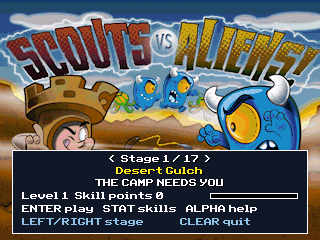
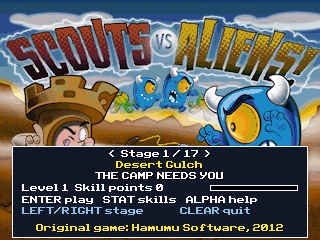
Credit Hamumu Software in-game and in the docs; clip text that overflows the screen
The Pedro controls page crashed the emulator because long lines wrapped past
the end of the screen buffer. Text is now truncated or wrapped to fit in both
games. Credits go in CREDITS.md, the READMEs, the release package and the
help/menu screens.

Changed region(s): [[0.0312, 0.5833, 0.9688, 0.9917]]

diff --git a/flash-ports/pedrofu/src/frontend.c b/flash-ports/pedrofu/src/frontend.c
@@ -7,7 +7,7 @@ static int menu_selection, skill_cursor;
 static char text[64];
 
 static void panel(int x, int y, int w, int h) { gfx_SetColor(cPanel); gfx_FillRectangle(x, y, w, h); gfx_SetColor(cWhite); gfx_Rectangle(x, y, w, h); }
-static void shadow(const char *s, int x, int y, int color) { gfx_SetTextFGColor(cBlack); gfx_PrintStringXY(s, x + 1, y + 1); gfx_SetTextFGColor(color); gfx_PrintStringXY(s, x, y); }
+static void shadow(const char *s, int x, int y, int color) { gfx_SetTextFGColor(cBlack); print_fit(s, x + 1, y + 1); gfx_SetTextFGColor(color); print_fit(s, x, y); }
 static void centered(int y, const char *s, int color) { shadow(s, (320 - gfx_GetStringWidth(s)) / 2, y, color); }
 static int available_levels(void) { int n = levels_passed(); return n > 14 ? 14 : n; }
 static void start_stage(int level) { if (load_level(level)) { g.mode = PLAY; g.previousmode = MAP; } }
@@ -32,7 +32,7 @@ static void draw_skills(void) {
     gfx_Sprite((gfx_sprite_t *)uidata[2][0], 0, 0); gfx_Sprite((gfx_sprite_t *)uidata[2][1], 160, 0);
     centered(1, "SKILLS", cWhite);
     snprintf(text, sizeof text, "Points left: %d", progress.points); shadow(text, 4, 12, cWhite);
-    snprintf(text, sizeof text, "Level %d", progress.rank + 1); shadow(text, 262, 12, cWhite);
+    snprintf(text, sizeof text, "Level %d", progress.rank + 1); shadow(text, 250, 12, cWhite);
     for (int group = 0; group < 3; group++) draw_ui(UI_SKB, 0, 11 + group * 103, 26);
     for (int id = 0; id < 45; id++) {
         int x = skill_x(id), y = skill_y(id), state = skill_state(id), group = skillgrid[id][0];
@@ -43,7 +43,7 @@ static void draw_skills(void) {
     gfx_SetColor(cYellow); gfx_Rectangle(skill_x(skill_cursor) - 4, skill_y(skill_cursor) - 4, 24, 24); gfx_Rectangle(skill_x(skill_cursor) - 5, skill_y(skill_cursor) - 5, 26, 26);
     panel(4, 168, 312, 44);
     int state = skill_state(skill_cursor);
-    if (state < 0) centered(173, "??? Find an Ancient Technique to learn it", cWhite);
+    if (state < 0) centered(173, "Find an Ancient Technique first", cWhite);
     else {
         snprintf(text, sizeof text, "%s   rank %d / 5", skillnames[skill_cursor], progress.skills[skill_cursor]); centered(173, text, cYellow);
         int need = skill_need(skill_cursor);
@@ -113,26 +113,21 @@ void draw_frontend(void) {
         centered(197, "ENTER  Play game", cWhite); centered(207, "ALPHA  Controls", cWhite); centered(217, "CLEAR  Quit", cCyan);
         shadow("Game copyright 2012, Hamumu Software", 60, 231, cWhite);
         break;
-    case HELP: {
+    case HELP:
         gfx_FillScreen(cPanel);
         centered(4, "PEDRO KICKS BACK - CONTROLS", cYellow);
-        static const char *const lines[] = {
-            "Arrows: run, duck (hold Down), double-tap = Burro Bash",
-            "Up or 2nd: jump, again in the air = double jump",
-            "Hold 2nd while falling: glide",
-            "Alpha: punch; in the air: kick; duck + Alpha: Pedroken",
-            "Down in the air: dive kick     Hold Alpha: carry/throw",
-            "Del: fury - hold it with 1 full bar and press",
-            "  Down = blast, Left = freeze, Right = frenzy, Up = fix",
-            "MODE: pause (ENTER resume, STAT skills, MODE map)",
-            "Collect all the lost mail to finish a stage.",
-            "Find Ancient Techniques, hearts and Fury Souls.",
-            "Level up for skill points and spend them with STAT.",
-            "CLEAR: save and quit"};
         gfx_SetTextFGColor(cWhite);
-        for (int i = 0; i < 12; i++) gfx_PrintStringXY(lines[i], 8, 22 + i * 15);
+        wrap_text(8, 20, 304,
+                  "Arrows: run; hold Down to duck; double-tap a direction for Burro Bash.\n"
+                  "Up or 2nd: jump, again in the air to double-jump; hold 2nd while falling to glide.\n"
+                  "Alpha: punch; in the air, kick; duck + Alpha: Pedroken; Down in the air: dive kick; hold Alpha after a Burro Bash hit to grab.\n"
+                  "Del: Fury. With a full bar, hold Del and press Down (blast), Left (freeze), Right (frenzy) or Up (fix).\n"
+                  "MODE: pause. STAT: skills. CLEAR: save and quit.\n"
+                  "Collect all the lost mail to finish a stage. Find Ancient Techniques, hearts and Fury Souls; level up for skill points.",
+                  11);
+        centered(204, "Original game: Hamumu Software, 2012", cYellow);
         centered(224, "ENTER returns", cCyan);
-        break; }
+        break;
     case MAP: {
         gfx_Sprite((gfx_sprite_t *)uidata[1][0], 0, 0); gfx_Sprite((gfx_sprite_t *)uidata[1][1], 160, 0);
         int top = available_levels(), blink = (g.frame / 8) & 1;

diff --git a/flash-ports/scoutcamp/src/main.c b/flash-ports/scoutcamp/src/main.c
@@ -54,25 +54,32 @@ static void pickColors(void) {
     cBlack = nearestColor(0, 0, 0); cWhite = nearestColor(255, 255, 255); cYellow = nearestColor(255, 230, 40);
     cRed = nearestColor(230, 30, 30); cGreen = nearestColor(40, 200, 60); cCyan = nearestColor(90, 220, 255); cPanel = nearestColor(24, 24, 48);
 }
-static void label(const char *s, int x, int y, int color) { gfx_SetTextFGColor(color); gfx_PrintStringXY(s, x, y); }
+/* GraphX does not clip text at the right edge (it wraps into the next scanline), so truncate to fit. */
+static void printFit(const char *s, int x, int y) {
+    if (x + (int)gfx_GetStringWidth(s) <= 316) { gfx_PrintStringXY(s, x, y); return; }
+    char buffer[96]; int n = 0;
+    while (s[n] && n < 90) { buffer[n] = s[n]; buffer[n + 1] = 0; if (x + (int)gfx_GetStringWidth(buffer) > 316) { buffer[n] = 0; break; } n++; }
+    gfx_PrintStringXY(buffer, x, y);
+}
+static void label(const char *s, int x, int y, int color) { gfx_SetTextFGColor(color); printFit(s, x, y); }
 static void shadowLabel(const char *s, int x, int y, int color) { label(s, x + 1, y + 1, cBlack); label(s, x, y, color); }
 static void centered(const char *s, int y, int color) { shadowLabel(s, (320 - gfx_GetStringWidth(s)) / 2, y, color); }
 static void panel(int x, int y, int w, int h) { gfx_SetColor(cPanel); gfx_FillRectangle(x, y, w, h); gfx_SetColor(cWhite); gfx_Rectangle(x, y, w, h); }
 static void wrapText(const char *s, int x, int y, int width, int step, int color) {
     char line[96]; int n = 0; gfx_SetTextFGColor(color);
     while (*s) {
-        if (*s == '\n') { line[n] = 0; gfx_PrintStringXY(line, x, y); n = 0; y += step; s++; continue; }
+        if (*s == '\n') { line[n] = 0; printFit(line, x, y); n = 0; y += step; s++; continue; }
         if (*s == ' ') { if (n && n < 90) line[n++] = ' '; s++; continue; }
         int len = 0; while (s[len] && s[len] != ' ' && s[len] != '\n') len++;
         if (len > 40) len = 40;
         memcpy(line + n, s, len); line[n + len] = 0;
         if (n && (int)gfx_GetStringWidth(line) > width) {
             while (n && line[n - 1] == ' ') n--;
-            line[n] = 0; gfx_PrintStringXY(line, x, y); y += step; memcpy(line, s, len); n = len; line[n] = 0;
+            line[n] = 0; printFit(line, x, y); y += step; memcpy(line, s, len); n = len; line[n] = 0;
         } else n += len;
         s += len;
     }
-    line[n] = 0; if (n) gfx_PrintStringXY(line, x, y);
+    line[n] = 0; if (n) printFit(line, x, y);
 }
 static void drawArt(int id, int frame, int x, int y, bool flip) {
     gfx_sprite_t *sprite = art_sprite(id, frame);
@@ -91,16 +98,17 @@ static void xpBar(int x, int y, int w) {
 /* ---------- menus ---------- */
 static void renderMenu(void) {
     art_background(ART_TITLESTATE_TITLEIMAGE_LEFT);
-    panel(12, 150, 296, 84);
+    panel(12, 146, 296, 92);
     snprintf(textbuf, sizeof textbuf, "<  Stage %u / 17  >", level + 1);
-    centered(textbuf, 155, cWhite);
-    centered(stageTitles[level], 167, cYellow);
-    if (level >= unlocked) centered("LOCKED - win the previous stage", 179, cRed);
-    else centered(stageWon[level] ? "CAMP SAVED" : "THE CAMP NEEDS YOU", 179, stageWon[level] ? cGreen : cWhite);
+    centered(textbuf, 150, cWhite);
+    centered(stageTitles[level], 161, cYellow);
+    if (level >= unlocked) centered("LOCKED - win the previous stage", 172, cRed);
+    else centered(stageWon[level] ? "CAMP SAVED" : "THE CAMP NEEDS YOU", 172, stageWon[level] ? cGreen : cWhite);
     snprintf(textbuf, sizeof textbuf, "Level %d  Skill points %d", playerLevel, skillPoints);
-    label(textbuf, 22, 192, cWhite); xpBar(210, 193, 88);
-    label("ENTER play   STAT skills   ALPHA help", 22, 205, cWhite);
-    label("LEFT/RIGHT stage            CLEAR quit", 22, 218, cCyan);
+    label(textbuf, 22, 184, cWhite); xpBar(210, 185, 88);
+    label("ENTER play   STAT skills   ALPHA help", 22, 196, cWhite);
+    label("LEFT/RIGHT stage            CLEAR quit", 22, 207, cCyan);
+    centered("Original game: Hamumu Software, 2012", 224, cYellow);
 }
 static void renderHelp(void) {
     gfx_FillScreen(cPanel);
@@ -120,6 +128,7 @@ static void renderHelp(void) {
         "Kill thieves to drop the food they carry;",
         "dropped food can be grabbed again."};
     for (int i = 0; i < 13; i++) label(lines[i], 10, 22 + i * 14, cWhite);
+    centered("Original game: Hamumu Software, 2012", 208, cYellow);
     label("Press ENTER or MODE to return", 50, 224, cCyan);
 }
 

diff --git a/flash-ports/pedrofu/src/render.c b/flash-ports/pedrofu/src/render.c
@@ -23,22 +23,29 @@ void pick_colors(void) {
     cWhite = 255; cYellow = 254; cGold = 252;
 }
 
-void center_text(int y, const char *s) { gfx_PrintStringXY(s, (320 - gfx_GetStringWidth(s)) / 2, y); }
+/* GraphX does not clip text at the right edge (it wraps into the next scanline), so truncate to fit. */
+void print_fit(const char *s, int x, int y) {
+    if (x + (int)gfx_GetStringWidth(s) <= 316) { gfx_PrintStringXY(s, x, y); return; }
+    char buffer[96]; int n = 0;
+    while (s[n] && n < 90) { buffer[n] = s[n]; buffer[n + 1] = 0; if (x + (int)gfx_GetStringWidth(buffer) > 316) { buffer[n] = 0; break; } n++; }
+    gfx_PrintStringXY(buffer, x, y);
+}
+void center_text(int y, const char *s) { int w = gfx_GetStringWidth(s); print_fit(s, w >= 316 ? 2 : (320 - w) / 2, y); }
 void wrap_text(int x, int y, int width, const char *s, int step) {
     char line[96]; int n = 0;
     while (*s) {
-        if (*s == '\n') { line[n] = 0; gfx_PrintStringXY(line, x, y); n = 0; y += step; s++; continue; }
+        if (*s == '\n') { line[n] = 0; print_fit(line, x, y); n = 0; y += step; s++; continue; }
         if (*s == ' ') { if (n && n < 90) line[n++] = ' '; s++; continue; }
         int len = 0; while (s[len] && s[len] != ' ' && s[len] != '\n') len++;
         if (len > 40) len = 40;
         memcpy(line + n, s, len); line[n + len] = 0;
         if (n && (int)gfx_GetStringWidth(line) > width) {
             while (n && line[n - 1] == ' ') n--;
-            line[n] = 0; gfx_PrintStringXY(line, x, y); y += step; memcpy(line, s, len); n = len; line[n] = 0;
+            line[n] = 0; print_fit(line, x, y); y += step; memcpy(line, s, len); n = len; line[n] = 0;
         } else n += len;
         s += len;
     }
-    line[n] = 0; if (n) gfx_PrintStringXY(line, x, y);
+    line[n] = 0; if (n) print_fit(line, x, y);
 }
 
 static void tile(int t, int x, int y) {

diff --git a/flash-ports/pedrofu/src/story.c b/flash-ports/pedrofu/src/story.c
@@ -13,7 +13,7 @@ void story_draw(void){
 }
 void story_triggers(void){
  if(g.level==3&&g.px>37*16*16&&g.ground)story_start(3,-1);
- if(g.level==0){const char *tip=NULL;int x=g.px/16;if(x<300)tip="Arrows move. Up or 2nd jumps; hold to glide.";else if(x<700)tip="Alpha attacks. Tap again in the air for a kick.";else if(x<1200)tip="Pick up Ancient Techniques, then spend XP points.";else if(x<1600)tip="Collect all lost mail to complete the stage.";else tip="MODE pauses; SKILLS are available from the map.";if(!g.notice_timer)notice(tip);}
+ if(g.level==0){const char *tip=NULL;int x=g.px/16;if(x<300)tip="Arrows move. Up or 2nd jumps; hold to glide.";else if(x<700)tip="Alpha attacks. Alpha in the air kicks.";else if(x<1200)tip="Collect Ancient Techniques, then use STAT.";else if(x<1600)tip="Collect all the lost mail to finish.";else tip="MODE pauses. STAT opens your skills.";if(!g.notice_timer)notice(tip);}
  for(int i=0;i<g.enemies;i++){Enemy *e=&g.enemy[i];if(!e->active)continue;int distance=absi(e->x-g.px)+absi(e->y-g.py);
   if(g.level==1&&e->type==17&&distance<100*16&&e->tag)story_start(2,i);
   if(g.level==4&&e->type==35&&distance<130*16)story_start(4,i);

diff --git a/flash-ports/pedrofu/src/game.h b/flash-ports/pedrofu/src/game.h
@@ -54,5 +54,5 @@ Enemy *spawn_enemy(int type,int tx,int ty,int tag);void enemy_update(void);void 
 void player_update(void);void projectile_update(void);void fire_shot(int type,int side,int x,int y,int vx,int vy,int damage);
 void prop_update(void);void arena_setup(void);void arena_update(void);void drop_power(int which,int x,int y);
 void story_start(int event,int enemy);void story_update(void);void story_draw(void);void story_triggers(void);
-void draw_game(void);void draw_frontend(void);void frontend_update(void);void wrap_text(int x,int y,int width,const char *s,int lineheight);void center_text(int y,const char *s);
+void draw_game(void);void draw_frontend(void);void frontend_update(void);void wrap_text(int x,int y,int width,const char *s,int lineheight);void print_fit(const char *s,int x,int y);void center_text(int y,const char *s);
 #endif

diff --git a/flash-ports/package.py b/flash-ports/package.py
@@ -21,7 +21,7 @@ inputs += [ROOT / 'local-tools/cemu/clibs/clibs' / (n + '.8xv')
            for n in ['libload', 'graphx', 'keypadc', 'fileioc']]
 for source in inputs:
     shutil.copy2(source, OUT / source.name)
-for source, name in [(HERE / 'README.md', 'START-HERE.md'),
+for source, name in [(HERE / 'README.md', 'START-HERE.md'), (HERE / 'CREDITS.md', 'CREDITS.md'),
                      (HERE / 'scoutcamp/README.md', 'Scouts-Controls-and-Notes.md'),
                      (HERE / 'pedrofu/PORT-NOTES.md', 'Pedro-Controls-and-Notes.md'),
                      (HERE / 'verification/RESULTS.md', 'Verification.md')]:

diff --git a/flash-ports/scoutcamp/README.md b/flash-ports/scoutcamp/README.md
@@ -1,6 +1,6 @@
 # Scouts vs Aliens CE
 
-Native calculator rebuild of the supplied `scoutcamp_unlocked.swf` (the in-game title is **Scouts vs Aliens**, Hamumu Software, 2012). It is built from the AS3 recovered with JPEXS, not from a Flash emulator. This is a work in progress; the [parity audit](../PARITY-AUDIT.md) lists what is verified and what is not.
+Native calculator rebuild of the supplied `scoutcamp_unlocked.swf` (the in-game title is **Scouts vs Aliens**, created by Hamumu Software, 2012). It is built from the AS3 recovered with JPEXS, not from a Flash emulator. This is a work in progress; the [parity audit](../PARITY-AUDIT.md) lists what is verified and what is not.
 
 `bin/SCOUTCE.8xp` is the program; the 18 `SCAxx.8xv` banks hold the artwork and must be sent with it. Runtime libraries and install steps are in the parent README.
 
@@ -56,4 +56,4 @@ Generators (Python 3.12 with Pillow from `local-tools/plot-libs`): `generate.py`
 python tests/check_original_rules.py
 ```
 
-These files retain original third-party content and attribution; this private conversion does not grant redistribution rights.
+The original game, artwork and music are by Hamumu Software (2012); see [CREDITS.md](../CREDITS.md). This is an unofficial fan port and grants no rights to the original content.

diff --git a/flash-ports/CREDITS.md b/flash-ports/CREDITS.md
@@ -1,0 +1,15 @@
+# Credits
+
+## The original games
+
+**Scouts vs Aliens** and **Pedro Kicks Back** were created by **Hamumu Software** (copyright 2012): the game design, code, artwork and characters are theirs. Find their games at [hamumu.com](http://hamumu.com). The originals credit the music to **Nosoapradio.us**; the calculator ports have no music.
+
+These ports are an unofficial fan project. They are not affiliated with or endorsed by Hamumu Software, and they grant no rights to the original games, artwork or music, which remain with their creators. The recovered original scripts and images kept under `original/` and `assets/` are reference material from the supplied games.
+
+## Tools and libraries
+
+- [CE C/C++ Toolchain](https://github.com/CE-Programming/toolchain) and [CE Libraries](https://github.com/CE-Programming/libraries) (graphx, keypadc, fileioc) for building and running on the TI-84 Plus CE.
+- [CEmu](https://github.com/CE-Dev/CEmu) for emulator testing.
+- [JPEXS Free Flash Decompiler](https://github.com/jindrapetrik/jpexs-decompiler) for recovering the original ActionScript and images.
+- [Ruffle](https://ruffle.rs) for running the original games as a reference.
+- Python and [Pillow](https://python-pillow.org) for asset conversion.

diff --git a/README.md b/README.md
@@ -21,3 +21,7 @@ Native calculator-emulator (CEmu) captures
 ## Build environment
 
 The project uses the [CE C/C++ toolchain](https://github.com/CE-Programming/toolchain), GraphX, keypadc and fileioc. Makefiles expect a workspace-local portable toolchain at `local-tools/cedev/CEdev` and game projects under `flash-ports/`. Asset converters require Python 3.12 with Pillow. Each program needs its resource AppVars alongside it (`SCAxx` for Scouts, `PDxxx` for Pedro); `flash-ports/package.py` assembles the transfer package.
+
+## Credits
+
+Scouts vs Aliens and Pedro Kicks Back were created by Hamumu Software (copyright 2012, [hamumu.com](http://hamumu.com)); the original music is by Nosoapradio.us. This is an unofficial fan project and grants no rights to the original games, artwork or music. See [flash-ports/CREDITS.md](flash-ports/CREDITS.md) for the full list, including the tools used.

diff --git a/flash-ports/README.md b/flash-ports/README.md
@@ -7,7 +7,7 @@ These are native C rebuilds of the two supplied SWFs, written from the AS3 recov
 | scoutcamp_unlocked.swf | Scouts vs Aliens | SCOUTCE (+ 18 `SCAxx` art banks) |
 | pedrofu_unlocked.swf | Pedro Kicks Back | PEDROCE (+ 18 `PDBxx` banks, `PDCOLOR`, `PDTILE0/1`, six `PDUxx` images) |
 
-The original games and extracted artwork are credited to Hamumu Software (2012), as identified by the supplied games. This folder contains the calculator implementation and local recovery work. The Flash files themselves cannot run on the calculator.
+The original games, artwork and characters were created by Hamumu Software (2012); see [CREDITS.md](CREDITS.md). This is an unofficial fan project. This folder contains the calculator implementation and local recovery work. The Flash files themselves cannot run on the calculator.
 
 ## Install
 

diff --git a/flash-ports/pedrofu/PORT-NOTES.md b/flash-ports/pedrofu/PORT-NOTES.md
@@ -1,6 +1,6 @@
 # Pedro Kicks Back CE
 
-`pedrofu_unlocked.swf` identifies its original game as **Pedro Kicks Back**, by Hamumu Software (2012). This is a native TI-84 Plus CE rebuild from the AS3 recovered with JPEXS, not a Flash emulator or an automatic bytecode conversion. It is a work in progress; the [parity audit](../PARITY-AUDIT.md) lists what is verified and what is not.
+`pedrofu_unlocked.swf` identifies its original game as **Pedro Kicks Back**, by Hamumu Software (2012; see [CREDITS.md](../CREDITS.md)). This is a native TI-84 Plus CE rebuild from the AS3 recovered with JPEXS, not a Flash emulator or an automatic bytecode conversion. It is a work in progress; the [parity audit](../PARITY-AUDIT.md) lists what is verified and what is not.
 
 ## What is in this build
 
